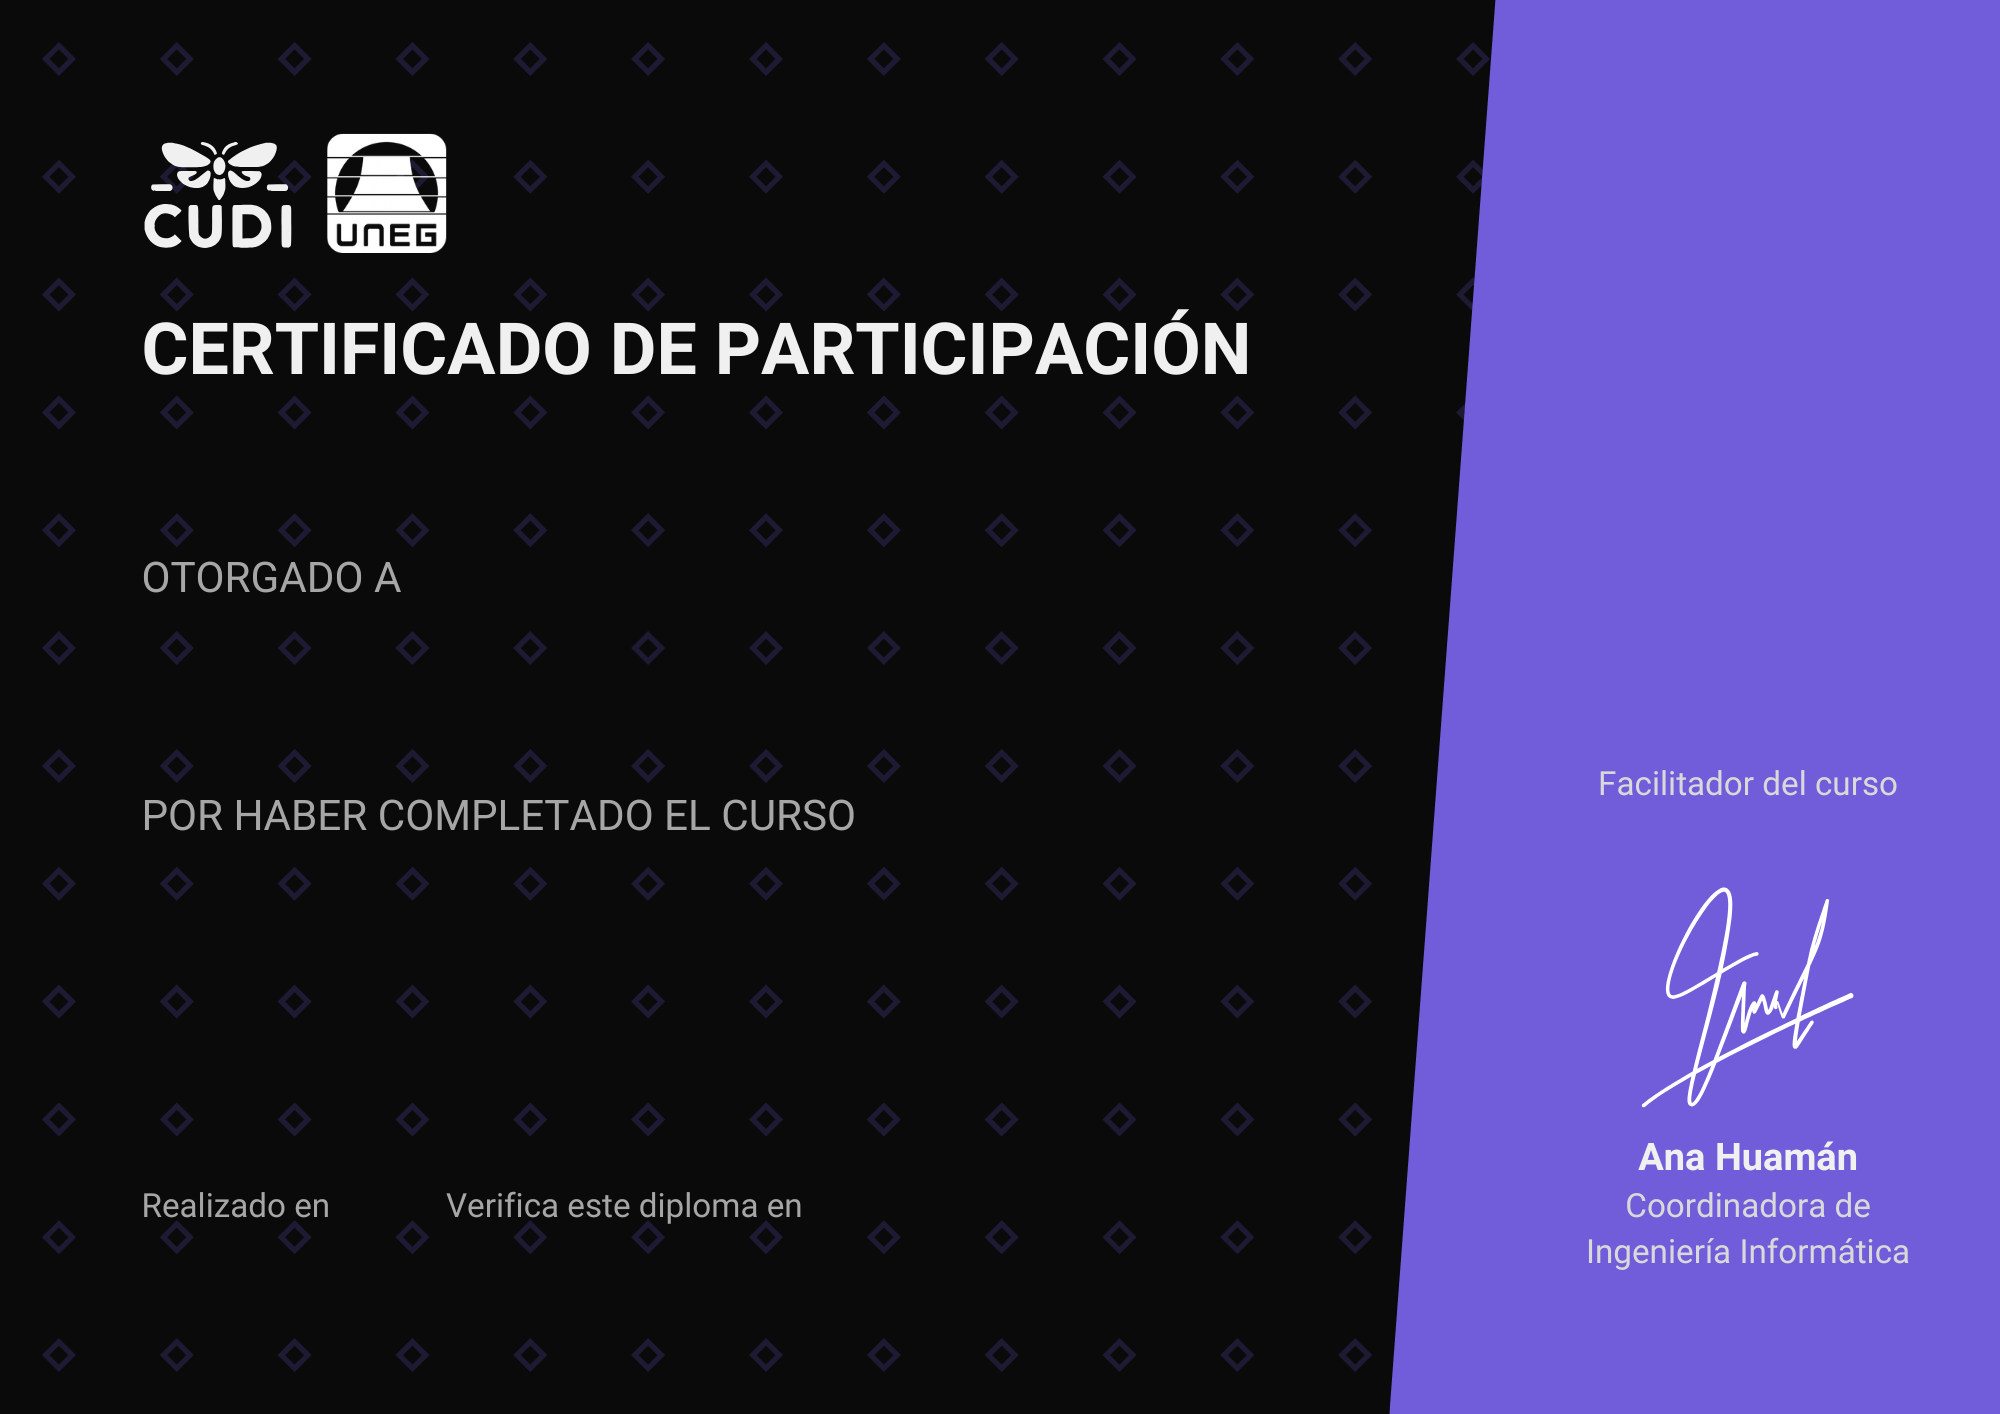
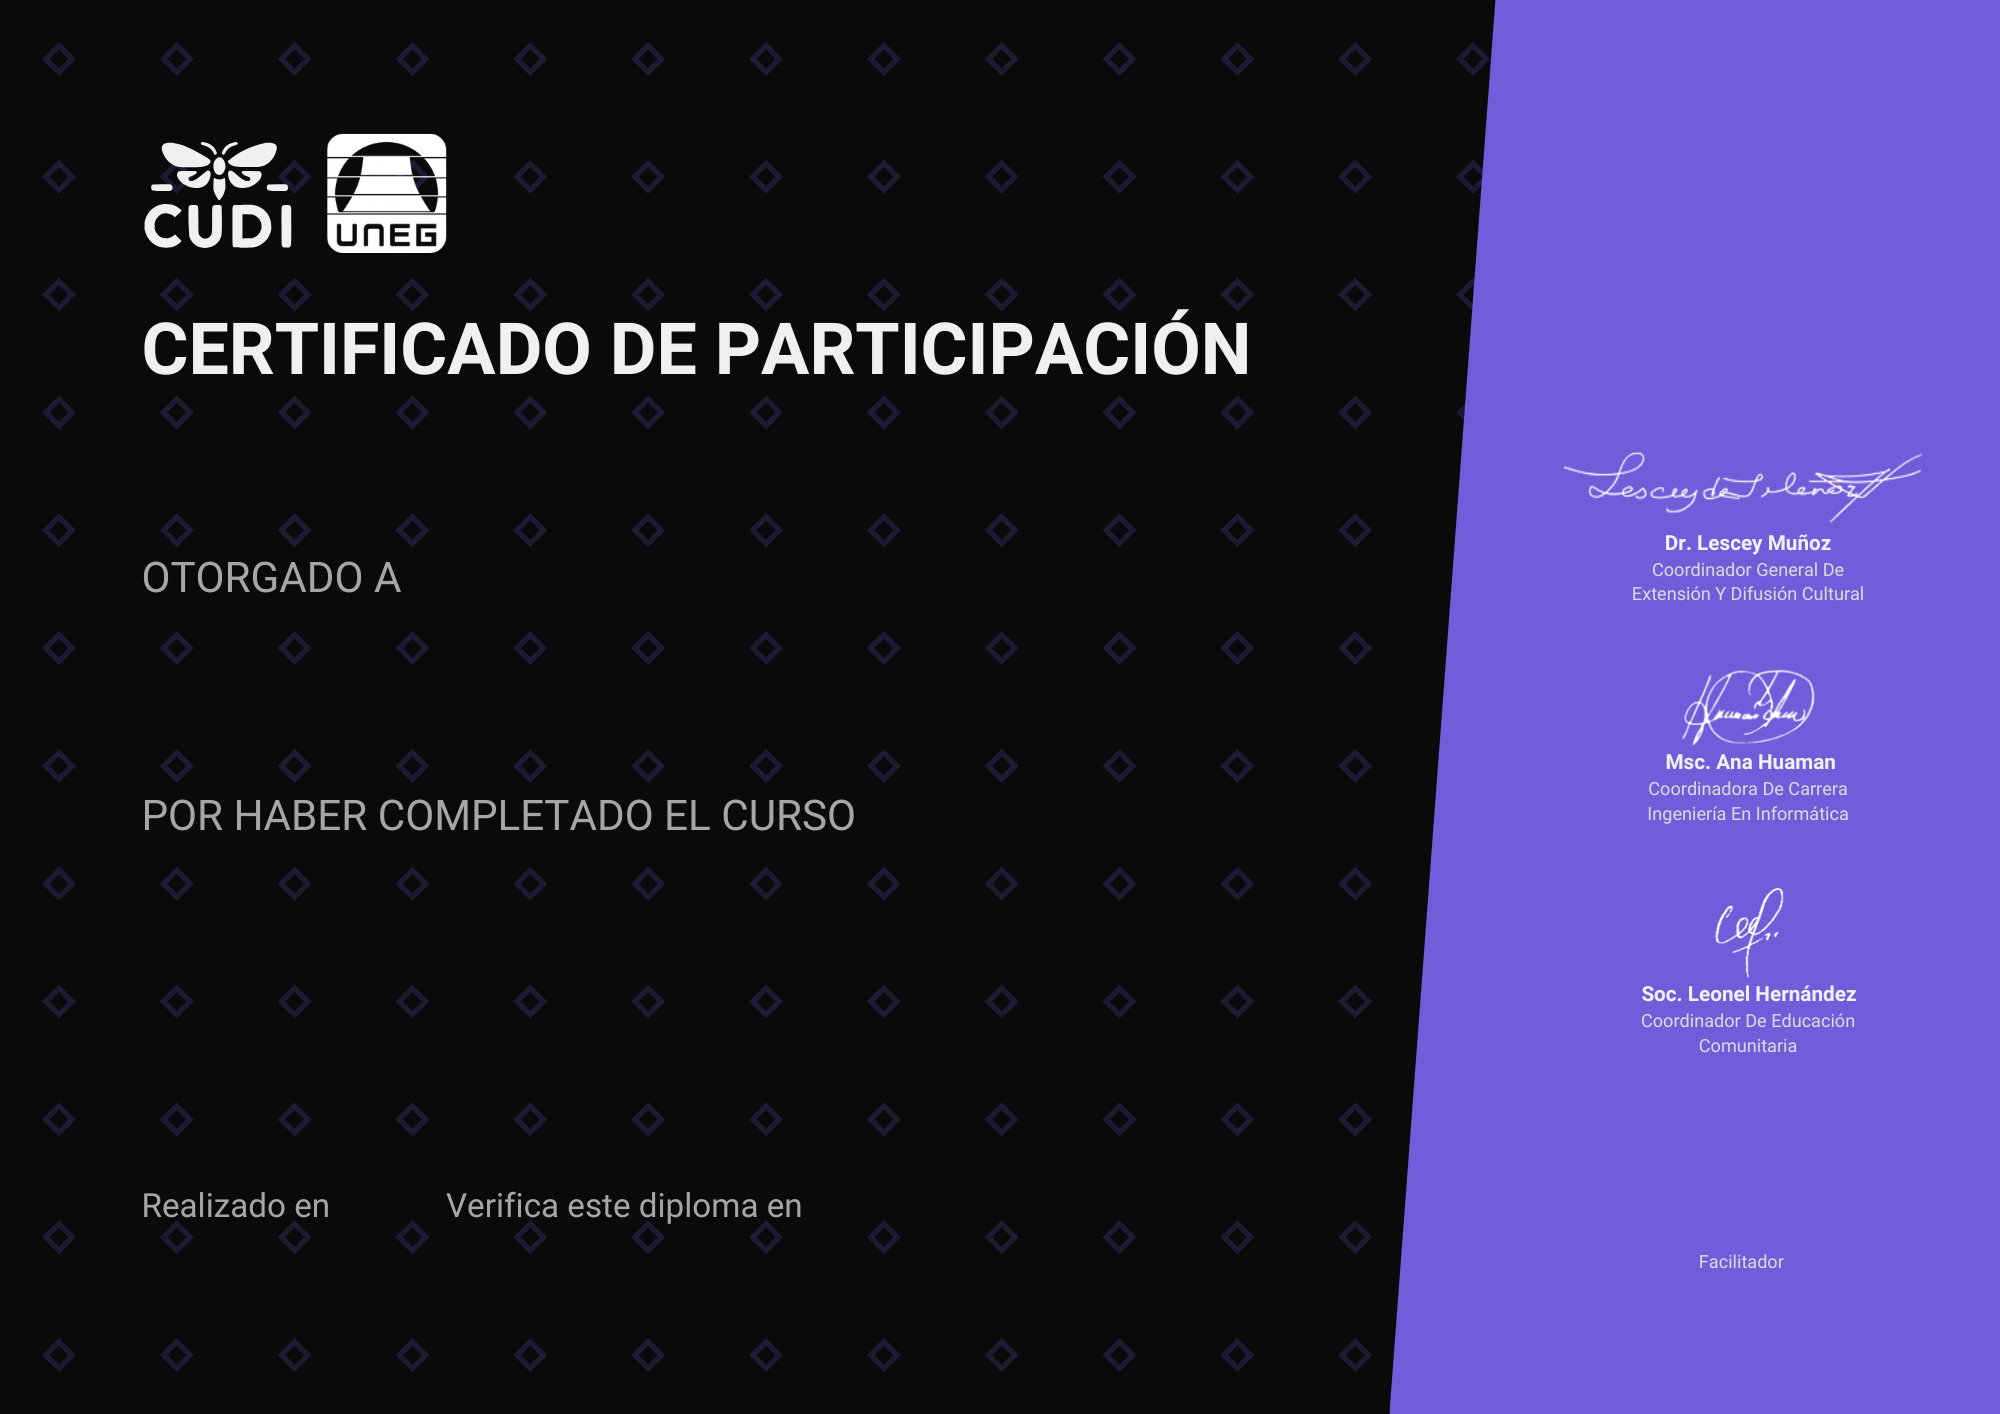
feat: new certificate template

diff --git a/src/hooks/useCertificate.ts b/src/hooks/useCertificate.ts
@@ -114,7 +114,16 @@ export default function useCertificate(certificate: Certificate) {
 
       ctx.drawImage(qr, 902, 67);
 
-      ctx.drawImage(signature, 921, 264, 119, 124);
+      const signatureRatio = signature.width / signature.height;
+      const signatureHeight = 52;
+      const signatureWidth = signatureRatio * signatureHeight;
+      ctx.drawImage(
+        signature,
+        977 - signatureWidth / 2,
+        680 - signatureHeight,
+        signatureWidth,
+        signatureHeight,
+      );
 
       ctx.fillStyle = "white";
       ctx.textBaseline = "bottom";
@@ -127,9 +136,9 @@ export default function useCertificate(certificate: Certificate) {
       textWithMetrics(ctx, date, 79, 695);
       textWithMetrics(ctx, url, 250, 695);
 
-      ctx.font = "700 16pt Roboto Flex Variable";
+      ctx.font = "700 9pt Roboto Flex Variable";
       ctx.textAlign = "center";
-      textWithMetrics(ctx, presenter, 981, 401);
+      textWithMetrics(ctx, presenter, 977, 684);
 
       setImage(canvas.toDataURL("image/png"));
     })();
